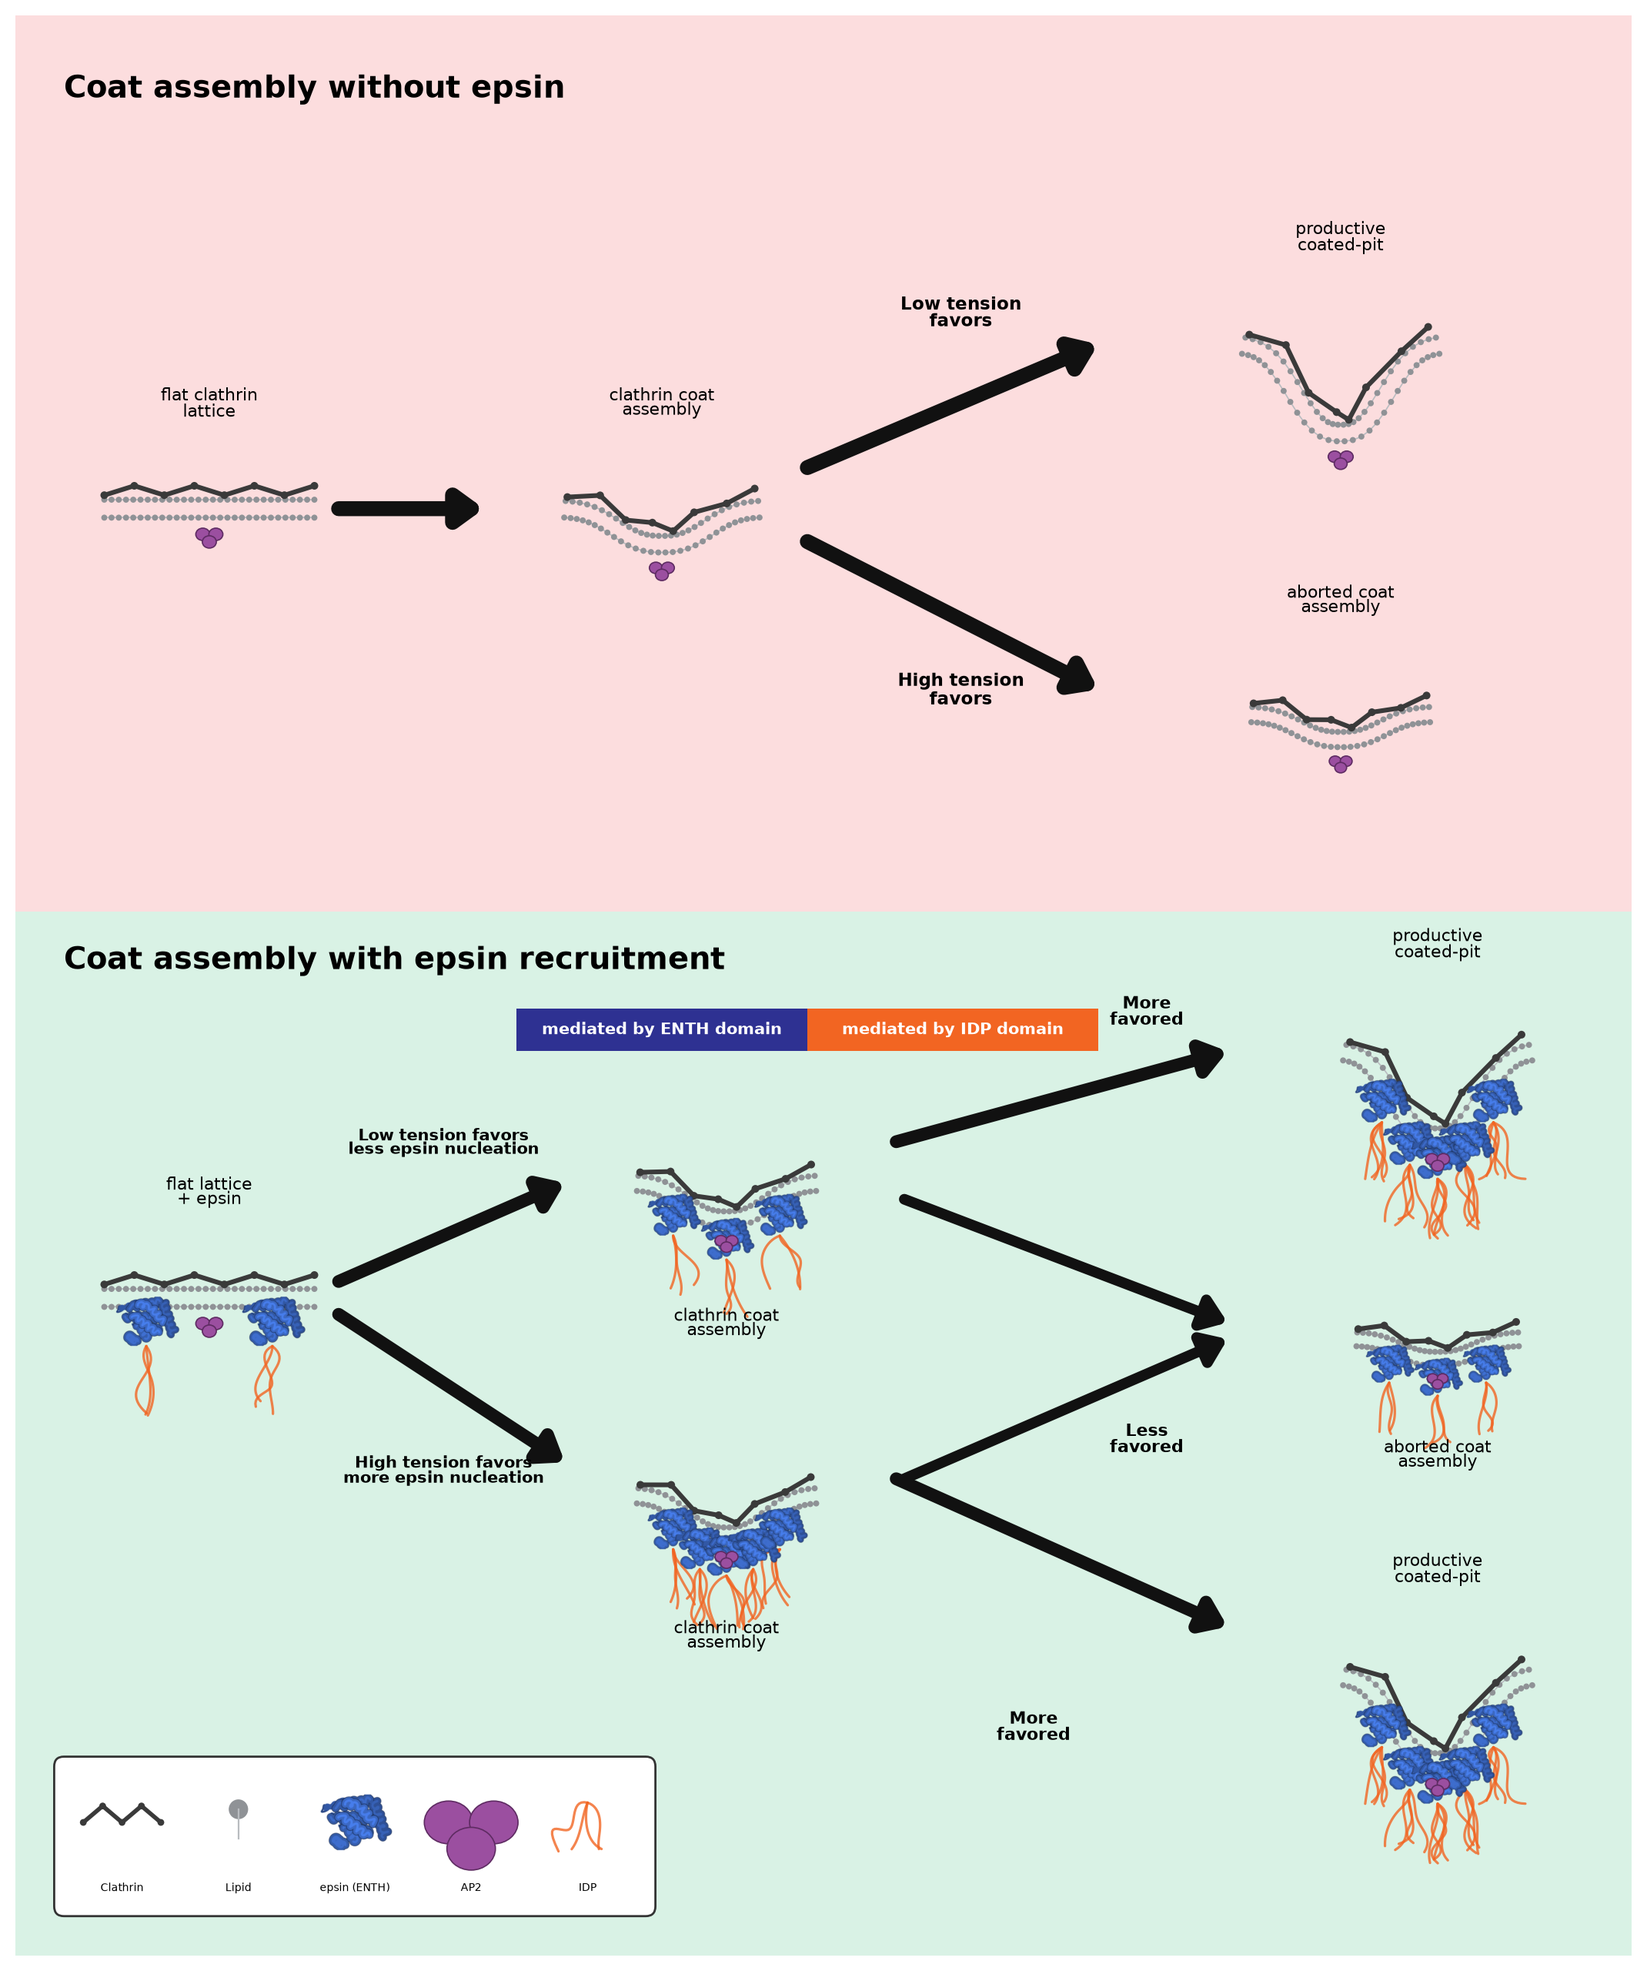
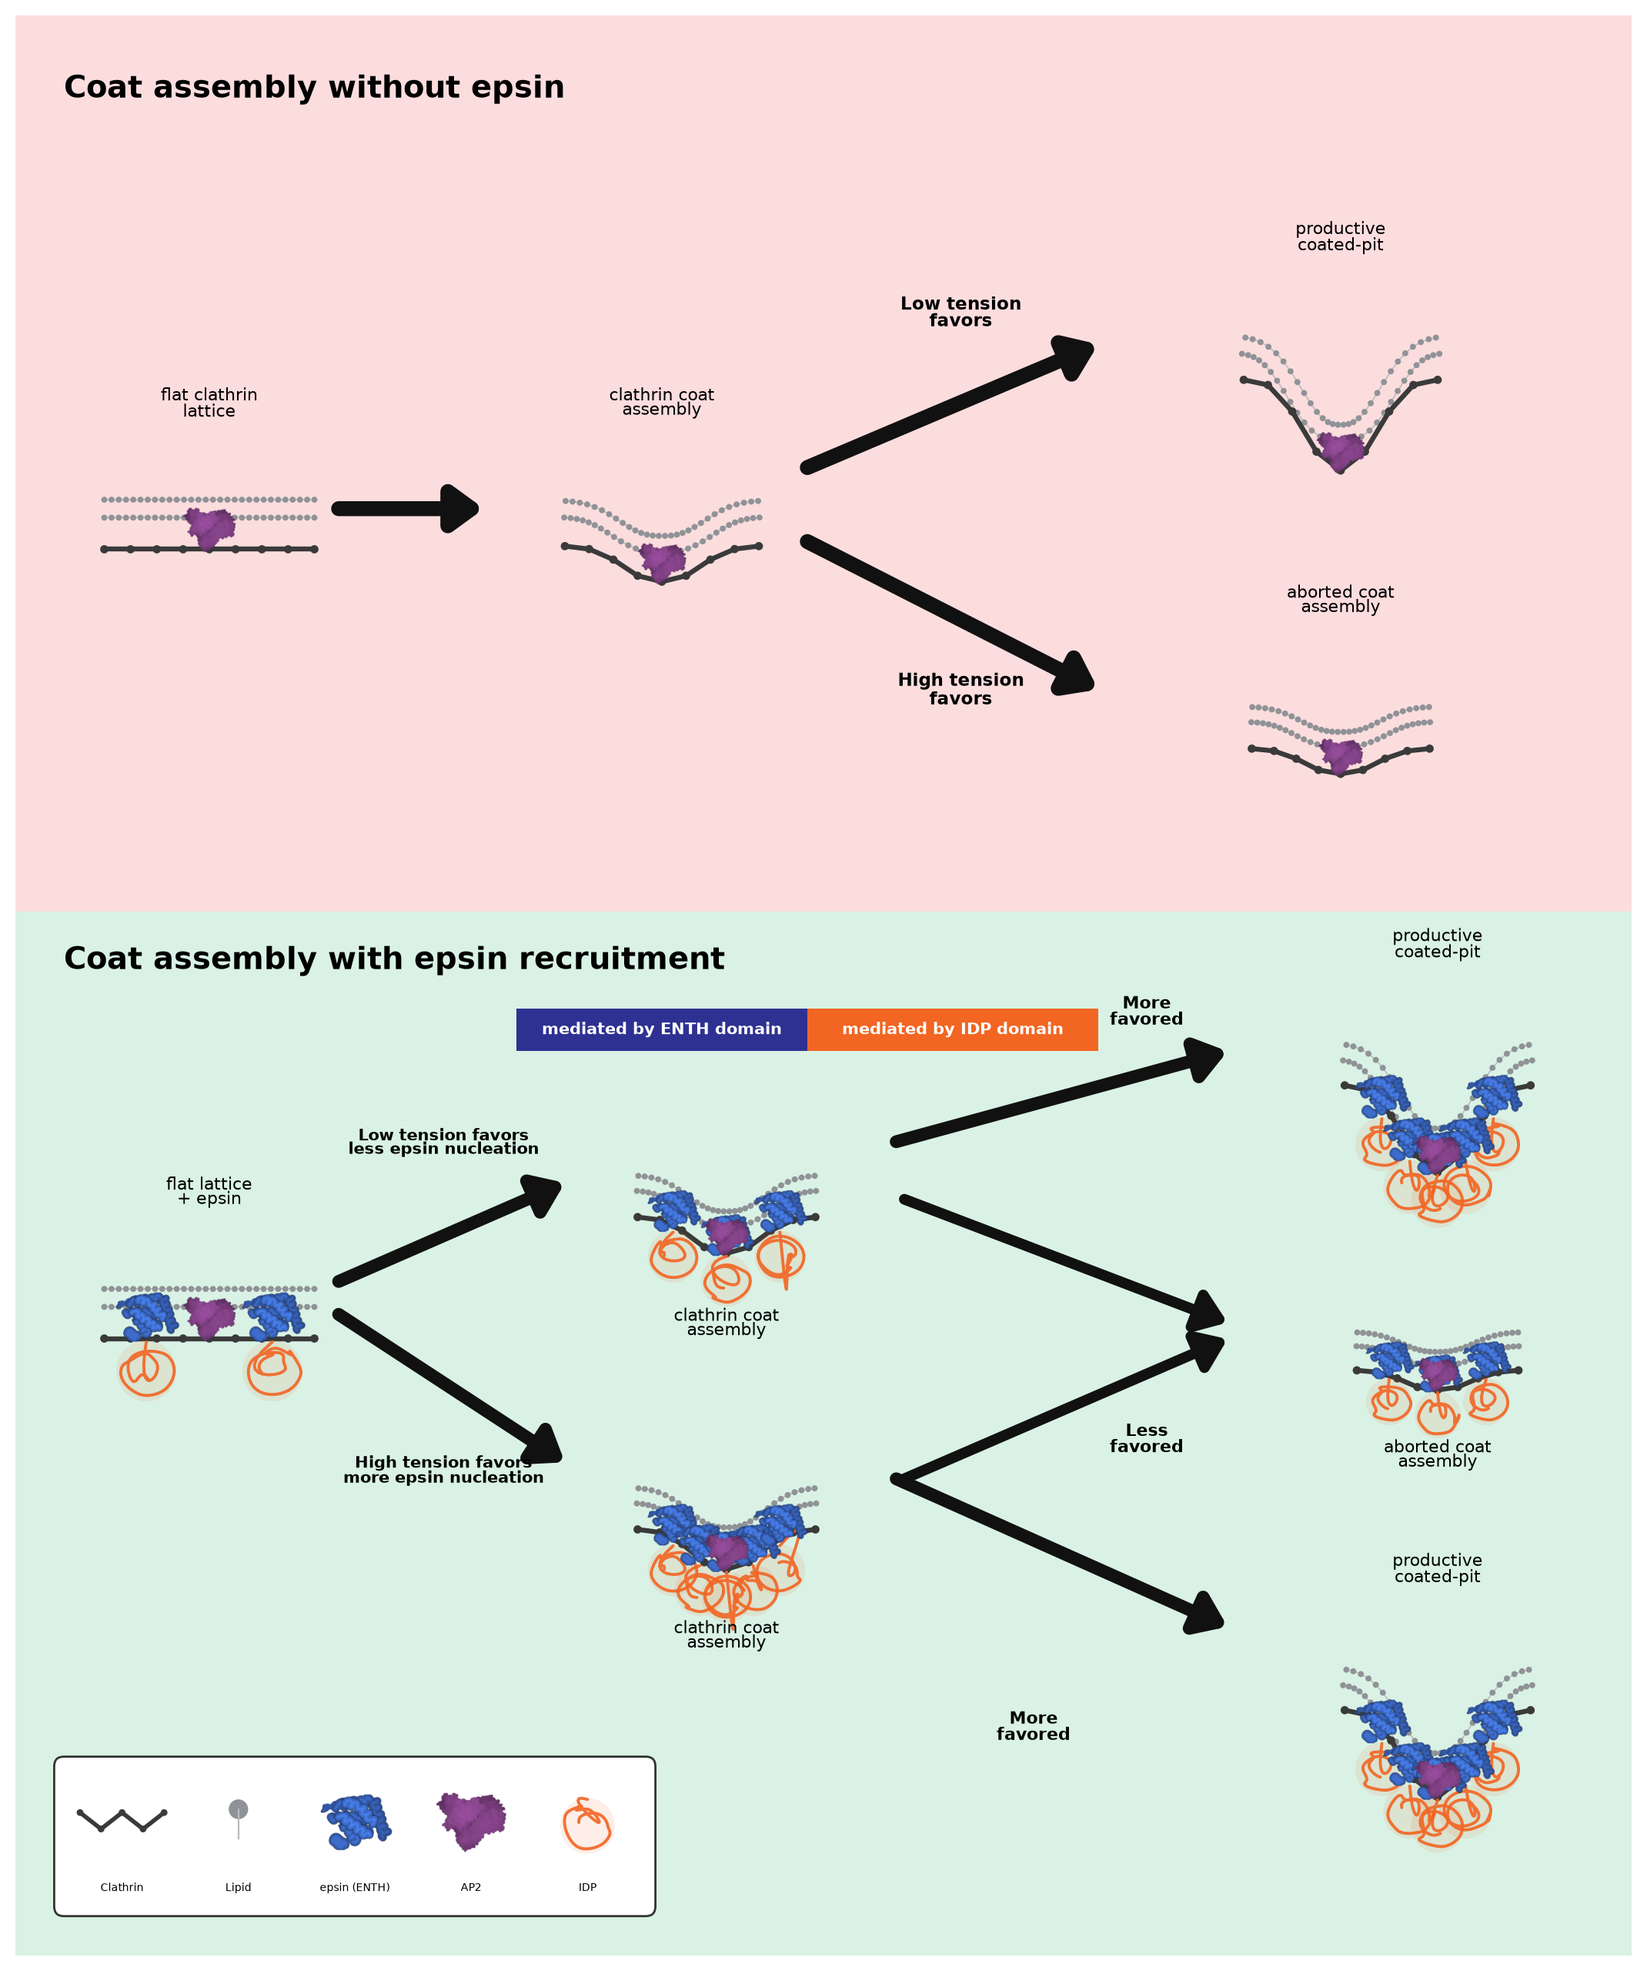
fix: clathrin envelope (cytoplasmic, tangential), Rh-sized IDP coil, atomic AP2
Address geometry feedback on the schematics:
- Clathrin drawn as a faceted ENVELOPE on the cytoplasmic-distal face, below the
  membrane-proximal adaptor heads: straight facet chords between vertices on the
  membrane-parallel offset curve, tangential to the curvature with shallow bend
  angles (replaces the outer-face zigzag)
- IDP is now a SINGLE coil per molecule anchored at the folded-domain C-terminus,
  with an excluded-volume halo whose radius = the IDP's hydrodynamic radius
  (Rh = 0.20*N^0.54, Marsh & Forman-Kay 2010); crowding = overlap of halos. Rh
  computed per protein from IDP residue count (epsin 418 aa, PICALM 362, AP180 617)
- AP2 rendered as an atomic space-filling silhouette from PDB 2XA7 (adaptor core),
  replacing the drawn tri-lobe glyph; new render_spacefill() for supporting cast
- Both figures reproduce from a cold cache; AP2 PDB + sprites gitignored

diff --git a/validation/realdata/schematic_idiom.py b/validation/realdata/schematic_idiom.py
@@ -61,7 +61,30 @@ STRUCTURE_URLS = {
     "1H0A":   "https://files.rcsb.org/download/1H0A.pdb",
     "Q13492": "https://alphafold.ebi.ac.uk/files/AF-Q13492-F1-model_v6.pdb",
     "O60641": "https://alphafold.ebi.ac.uk/files/AF-O60641-F1-model_v6.pdb",
+    "2XA7":   "https://files.rcsb.org/download/2XA7.pdb",   # AP2 core (Jackson et al. 2010)
 }
+
+# ---- supporting-cast structures drawn as space-filling silhouettes (atomic, from PDB) ----
+SPACEFILL_SOURCES = {
+    "ap2_core": dict(pdb="2XA7", color=PAL["ap2"],
+                     note="AP2 clathrin-adaptor core heterotetramer, X-ray 2XA7"),
+}
+
+# ---- per-primary IDP region: residue count + folded-domain size (nm) for Rh scaling ----
+# Epsin EPN1 (576 aa): ENTH 1-158, IDP 159-576 (418 aa). PICALM (652): ANTH 1-289,
+# IDP ~362 aa. AP180/SNAP91 (907): ANTH 1-289, IDP ~617 aa.
+IDP_META = {
+    "enth_cartoon":       dict(idp_res=418, fold_nm=2.8),
+    "anth_cartoon":       dict(idp_res=362, fold_nm=3.0),
+    "anth_ap180_cartoon": dict(idp_res=617, fold_nm=3.0),
+}
+RH_REF_NM = 5.2   # epsin IDP Rh, the reference for the on-figure coil scale
+
+
+def idp_Rh_nm(n_res, nu=0.54, r0=0.20):
+    """Hydrodynamic radius (nm) of an intrinsically disordered chain of n_res residues,
+    Rh = r0 * N**nu (Marsh & Forman-Kay 2010 IDP scaling). A steric-hindrance measure."""
+    return r0 * (n_res ** nu)
 
 
 # ================= structure IO + secondary structure =================
@@ -147,6 +170,50 @@ def render_cartoon(pdb_path, resrange=None, chain=None, color="#3f6fd0", px=360,
     return out
 
 
+def render_spacefill(pdb_path, color="#9b4fa0", chain=None, resrange=None, px=340,
+                     out=None, grid=340, r=5):
+    """Space-filling silhouette sprite from atomic coordinates (all atoms), PCA-oriented
+    and depth-shaded. Used for supporting-cast structures where a full ribbon cartoon
+    would be too busy at glyph size (e.g. the AP2 heterotetramer core)."""
+    import biotite.structure.io.pdb as _pdb
+    import biotite.structure as _struc
+    from scipy.ndimage import binary_closing, binary_fill_holes
+    arr = _pdb.PDBFile.read(pdb_path).get_structure(model=1)
+    arr = arr[_struc.filter_amino_acids(arr)]
+    if chain is not None:
+        arr = arr[arr.chain_id == chain]
+    if resrange:
+        arr = arr[(arr.res_id >= resrange[0]) & (arr.res_id <= resrange[1])]
+    P = arr.coord - arr.coord.mean(0)
+    _, _, Vt = np.linalg.svd(P, full_matrices=False); P = P @ Vt.T
+    xy, z = P[:, :2], P[:, 2]
+    lo, hi = xy.min(0), xy.max(0); span = (hi - lo).max() * 1.10; c = (lo + hi) / 2
+    gx = ((xy[:, 0] - c[0]) / span + 0.5) * (grid - 1)
+    gy = ((xy[:, 1] - c[1]) / span + 0.5) * (grid - 1)
+    zb = np.full((grid, grid), -np.inf)
+    yy, xx = np.mgrid[-r:r + 1, -r:r + 1]; disk = (xx * xx + yy * yy <= r * r)
+    for i in np.argsort(z):
+        xi, yi = int(round(gx[i])), int(round(gy[i]))
+        x0, x1 = max(0, xi - r), min(grid, xi + r + 1)
+        y0, y1 = max(0, yi - r), min(grid, yi + r + 1)
+        dsub = disk[(y0 - (yi - r)):(y1 - (yi - r)), (x0 - (xi - r)):(x1 - (xi - r))]
+        block = zb[y0:y1, x0:x1]; block[dsub & (z[i] > block)] = z[i]
+    mask = binary_fill_holes(binary_closing(np.isfinite(zb), iterations=2))
+    zz = zb.copy(); zz[~np.isfinite(zz)] = np.nanmin(zz[np.isfinite(zz)])
+    znorm = (zz - zz.min()) / (np.ptp(zz) + 1e-9)
+    base = np.array(to_rgb(color)); rgba = np.zeros((grid, grid, 4))
+    shade = 0.5 + 0.5 * gaussian_filter(znorm, 1.5)
+    for k in range(3):
+        rgba[:, :, k] = np.clip(base[k] * shade, 0, 1)
+    rgba[:, :, 3] = gaussian_filter(mask.astype(float), 0.7)
+    fig, ax = plt.subplots(figsize=(3, 3)); ax.axis("off"); ax.set_aspect("equal")
+    ax.imshow(np.flipud(rgba), interpolation="bilinear")
+    if out:
+        fig.savefig(out, dpi=px / 3, bbox_inches="tight", transparent=True)
+    plt.close(fig)
+    return out
+
+
 _SPRITE = {}
 def load_sprite(name):
     if name not in _SPRITE:
@@ -185,51 +252,51 @@ def draw_bilayer(ax, cx, cy, w, curv=0.0, neck=False, n=30, z=2):
         ax.scatter(hx, hy, s=8, c=PAL["lipid_head"], edgecolors="none", zorder=z + 0.1)
 
 
-def draw_faceted_clathrin(ax, cx, cy, w, curv, neck=False, n_facets=8, z=5, color=None, amp=0.022):
-    """Clathrin lattice as straight facet segments meeting at shallow angles -- the
-    edge-of-a-buckyball / geodesic-dome idiom. Vertices alternate in/out along the
-    local normal so the facets read even on a nearly flat lattice."""
+def draw_clathrin_envelope(ax, cx, cy, w, curv, neck=False, n_facets=9, z=3, color=None, off=0.19):
+    """Clathrin coat as a faceted ENVELOPE on the cytoplasmic-distal face: straight
+    facet chords between vertices that lie ON the membrane-parallel offset curve, so
+    the lattice stays tangential to the curvature with shallow bend angles at each
+    vertex (edge-of-a-buckyball / geodesic-dome idiom). Drawn below the membrane-
+    proximal adaptor heads (epsin/AP2), on the same cytoplasmic side."""
     color = color or PAL["clathrin"]
     xs = np.linspace(-w / 2, w / 2, n_facets)
-    yc, nx, ny = _profile(xs, w, curv, neck); off = 0.085 * w
-    zz = (np.arange(n_facets) % 2) * 2 - 1          # -1,+1,-1,... zigzag
-    voff = off + zz * amp * w
-    vx = cx + xs + nx * voff; vy = cy + yc + ny * voff
-    ax.plot(vx, vy, color=color, lw=2.2, zorder=z, solid_capstyle="round", solid_joinstyle="round")
-    ax.scatter(vx, vy, s=13, c=color, edgecolors="none", zorder=z + 0.1)
+    yc, nx, ny = _profile(xs, w, curv, neck)
+    vx = cx + xs; vy = cy + yc - ny * off * w        # offset along -normal (cytoplasmic)
+    ax.plot(vx, vy, color=color, lw=2.3, zorder=z, solid_capstyle="round", solid_joinstyle="round")
+    ax.scatter(vx, vy, s=15, c=color, edgecolors="none", zorder=z + 0.1)
 
 
-def draw_ap2(ax, x, y, s=1.0, z=6):
-    """Supporting cast: simple AP2 tri-lobe glyph (not a detailed structure)."""
-    for dx, dy in [(-0.028, 0.0), (0.028, 0.0), (0.0, -0.032)]:
-        ax.add_patch(Ellipse((x + dx * s, y + dy * s), 0.06 * s, 0.052 * s,
-                             fc=PAL["ap2"], ec="#5e2b62", lw=0.6, zorder=z))
+def draw_ap2(ax, x, y, s=1.0, z=6, w=None):
+    """Supporting cast: AP2 adaptor core as an atomic space-filling sprite (PDB 2XA7).
+    Falls back to a tri-lobe glyph if the sprite has not been built."""
+    ew = w if w is not None else 0.075 * s
+    try:
+        place_sprite(ax, "ap2_core", x, y, w=ew, z=z)
+    except FileNotFoundError:
+        for dx, dy in [(-0.028, 0.0), (0.028, 0.0), (0.0, -0.032)]:
+            ax.add_patch(Ellipse((x + dx * s, y + dy * s), 0.06 * s, 0.052 * s,
+                                 fc=PAL["ap2"], ec="#5e2b62", lw=0.6, zorder=z))
 
 
 # ================= IDP crowding brush (drawn) =================
-def draw_idp_from(ax, ax0, ay0, n_chains=4, spread=0.9, length=0.10, color=None,
-                  seed=0, z=4, down=-1.0):
-    """Intrinsically disordered region of ONE molecule, anchored at the folded
-    domain's cytoplasmic end (ax0, ay0) and fanning into the cytoplasm.
-
-    Epsin = ENTH (folded, membrane-binding) + IDP (disordered); AP180/CALM =
-    ANTH + IDP. The IDP is covalently part of the same protein, so its chains
-    emanate from each folded head rather than floating as a detached brush.
-    Curvature is generated by steric crowding of these dense disordered chains.
+def draw_idp_coil(ax, x0, y0, radius, color=None, seed=0, z=4, down=-1.0, halo=True):
+    """Intrinsically disordered region of ONE molecule as a SINGLE coil anchored at the
+    folded domain's C-terminus (x0, y0). The coil's extent = the IDP's hydrodynamic
+    radius Rh (a steric-hindrance measure); crowding is shown by the overlap of adjacent
+    coils' excluded-volume halos. Epsin = ENTH + IDP; AP180/CALM = ANTH + IDP.
     """
     color = color or PAL["idp"]
     rng = np.random.default_rng(seed)
-    for k in range(n_chains):
-        npts = int(rng.integers(4, 6)); t = np.linspace(0, 1, npts)
-        ang = (k / max(1, n_chains - 1) - 0.5) * spread
-        # drift terminates at ~length; random kinks are a small fraction of length so the
-        # chain stays a compact squiggle near the membrane rather than a long sprawl
-        px = ax0 + np.sin(ang) * length * 0.5 * t + np.cumsum(rng.normal(0, length * 0.10, npts)); px[0] = ax0
-        py = ay0 + down * length * t + rng.normal(0, length * 0.06, npts); py[0] = ay0
-        pts = np.column_stack([px, py])
-        sm = _smooth(pts, n=28) if npts >= 4 else pts
-        ax.plot(sm[:, 0], sm[:, 1], color=color, lw=1.15, alpha=0.8,
-                solid_capstyle="round", zorder=z + k * 0.01)
+    cxc, cyc = x0, y0 + down * radius * 0.95        # coil centre ~Rh from the C-terminus
+    if halo:
+        ax.add_patch(Circle((cxc, cyc), radius, fc=color, ec="none", alpha=0.10, zorder=z - 0.3))
+    t = np.linspace(0, 1, 20)
+    ang = 2 * np.pi * (1.6 * t) + rng.normal(0, 0.4, 20).cumsum()
+    rr = radius * (0.35 + 0.6 * np.sin(np.pi * t))  # out-and-back -> contained ball
+    px = np.concatenate([[x0], cxc + rr * np.cos(ang)])
+    py = np.concatenate([[y0], cyc + rr * np.sin(ang) * 0.85])
+    sm = _smooth(np.column_stack([px, py]), n=80)
+    ax.plot(sm[:, 0], sm[:, 1], color=color, lw=1.4, alpha=0.9, solid_capstyle="round", zorder=z)
 
 
 # ================= composite node =================
@@ -237,23 +304,24 @@ def node(ax, cx, cy, w, curv, n_eps, neck=False, ap2=True, primary="enth_cartoon
     """Membrane-state cartoon: bilayer + clathrin comb + n_eps cartoon players
     + IDP crowding brush (density ~ n_eps) + AP2 glyph."""
     draw_bilayer(ax, cx, cy, w, curv, neck)
-    draw_faceted_clathrin(ax, cx, cy, w, curv, neck)
+    draw_clathrin_envelope(ax, cx, cy, w, curv, neck)
     ew = 0.34 * w
+    # IDP coil radius (data units): Rh of THIS protein's IDP relative to epsin's, scaled
+    # so epsin's coil ~ the folded-head width. A steric-hindrance size, not a chain count.
+    meta = IDP_META.get(primary, IDP_META["enth_cartoon"])
+    coil_r = ew * 0.42 * (idp_Rh_nm(meta["idp_res"]) / RH_REF_NM)
     if n_eps > 0:
         xs = np.linspace(-w * 0.30, w * 0.30, n_eps) if n_eps > 1 else np.array([0.0])
         yc = (_profile(xs, w, curv, neck)[0] if n_eps > 1
               else np.array([_center_depth(w, curv)]))
         for i, ex in enumerate(xs):
-            ay = cy + yc[i] - 0.11 * w
+            ay = cy + yc[i] - 0.09 * w
             place_sprite(ax, primary, cx + ex, ay, w=ew, z=6)
             if idp:
-                # IDP region of THIS molecule, anchored at its folded-head lower edge.
-                # Denser chains when crowded (deeper pit / more heads) -> crowding pressure.
-                nch = 3 + int(round(min(curv, 0.45) / 0.45)) + (1 if n_eps >= 4 else 0)
-                draw_idp_from(ax, cx + ex, ay - ew * 0.34, n_chains=nch,
-                              length=0.30 * w, spread=0.8, seed=int(abs(cx * 1000) + i), z=4)
+                draw_idp_coil(ax, cx + ex, ay - ew * 0.34, coil_r,
+                              seed=int(abs(cx * 1000) + i), z=4)
     if ap2:
-        draw_ap2(ax, cx, cy - 0.12 * w + _center_depth(w, curv), s=w / 0.9, z=7)
+        draw_ap2(ax, cx, cy - 0.10 * w + _center_depth(w, curv), w=ew * 0.85, z=7)
 
 
 def branch_arrow(ax, x0, y0, x1, y1, lw=7, color=None):
@@ -273,11 +341,11 @@ def legend_box(ax, x, y, w=0.36, h=0.085, primary="enth_cartoon", primary_label=
         if kind == "primary":
             place_sprite(ax, primary, gx, gy, w=0.05, z=11)
         elif kind == "ap2":
-            draw_ap2(ax, gx, gy, s=0.5, z=11)
+            draw_ap2(ax, gx, gy, w=0.05, z=11)
         elif kind == "facet":
-            # short faceted (zigzag) clathrin segment
-            fx = np.linspace(gx - 0.024, gx + 0.024, 5)
-            fy = gy + (np.arange(5) % 2) * 0.010
+            # short faceted clathrin envelope segment (straight chords, shallow bends)
+            fx = np.linspace(gx - 0.026, gx + 0.026, 5)
+            fy = gy + np.array([0.006, -0.004, 0.006, -0.004, 0.006])
             ax.plot(fx, fy, color=PAL["clathrin"], lw=2.0, zorder=11,
                     solid_capstyle="round", solid_joinstyle="round")
             ax.scatter(fx, fy, s=10, c=PAL["clathrin"], edgecolors="none", zorder=11.1)
@@ -285,8 +353,7 @@ def legend_box(ax, x, y, w=0.36, h=0.085, primary="enth_cartoon", primary_label=
             ax.add_patch(Circle((gx, gy + 0.008), 0.006, fc=PAL["lipid_head"], ec="none", zorder=11))
             ax.plot([gx, gx], [gy + 0.008, gy - 0.01], color=PAL["lipid_tail"], lw=0.8, zorder=11)
         elif kind == "idp":
-            draw_idp_from(ax, gx, gy + 0.012, n_chains=4, length=0.03, spread=1.1,
-                          seed=3, z=11, down=-1.0)
+            draw_idp_coil(ax, gx, gy + 0.014, 0.017, seed=3, z=11, down=-1.0, halo=True)
         ax.text(gx, y + h * 0.13, lab, ha="center", va="center", fontsize=5.0, zorder=11)
 
 
@@ -297,7 +364,12 @@ def fetch_structures(cache_dir=None):
     os.makedirs(scdir, exist_ok=True)
     written = {}
     for key, url in STRUCTURE_URLS.items():
-        fname = f"{key}.pdb" if key == "1H0A" else f"AF_{key}.pdb"
+        if key == "1H0A":
+            fname = f"{key}.pdb"
+        elif key == "2XA7":
+            fname = f"AP2_{key}.pdb"
+        else:
+            fname = f"AF_{key}.pdb"
         path = os.path.join(scdir, fname)
         if not (os.path.exists(path) and os.path.getsize(path) > 1000):
             open(path, "wb").write(u.urlopen(url, timeout=60).read())
@@ -317,5 +389,10 @@ def build_sprites(cache_dir=None, out_dir=None):
         render_cartoon(path, resrange=src["resrange"], color=src["color"],
                        out=os.path.join(odir, f"{name}.png"))
         meta[name] = src
+    for name, src2 in SPACEFILL_SOURCES.items():
+        path = os.path.join(scdir, f"{src2['pdb']}.pdb") if os.path.exists(
+            os.path.join(scdir, f"{src2['pdb']}.pdb")) else os.path.join(scdir, f"AP2_{src2['pdb']}.pdb")
+        render_spacefill(path, color=src2["color"], out=os.path.join(odir, f"{name}.png"))
+        meta[name] = src2
     json.dump(meta, open(os.path.join(odir, "cartoon_meta.json"), "w"), indent=2, default=str)
     return meta
